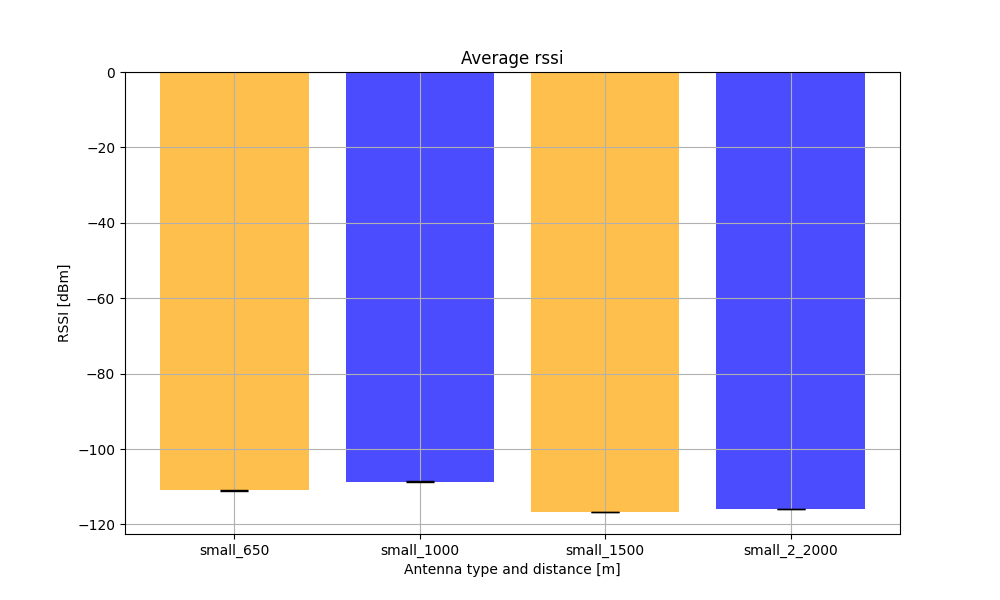
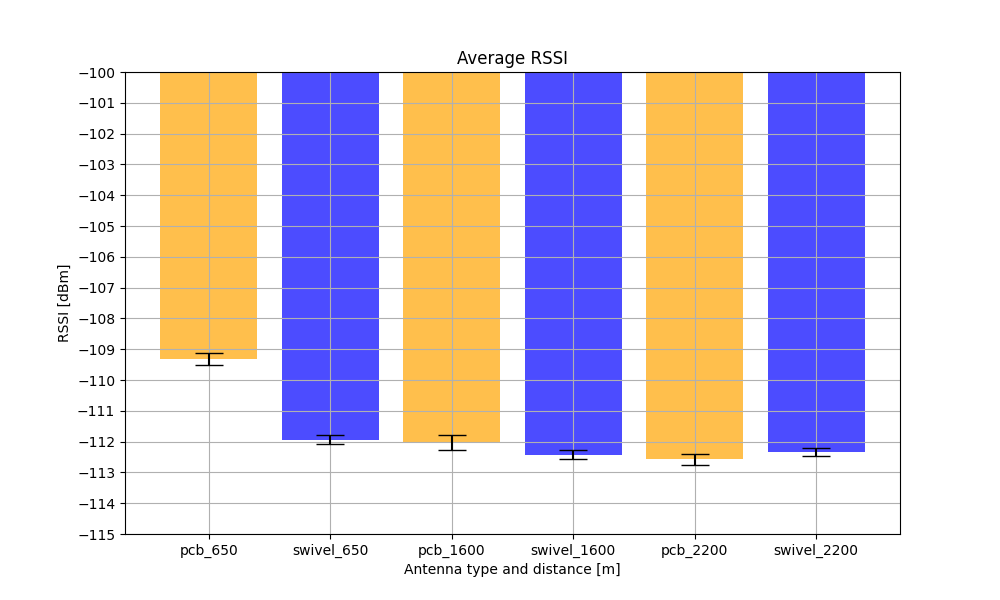
plot

diff --git a/test_script/plots.py b/test_script/plots.py
@@ -14,14 +14,14 @@ from scipy.stats import sem
 #     "zwykla_650.txt",
 # ]
 
-# data_paths = [
-#     "pcb_650.txt",
-#     "swivel_650.txt",
-#     "pcb_1600.txt",
-#     "swivel_1600.txt",
-#     "pcb_2200.txt",  
-#     "swivel_2200.txt",  
-# ]
+data_paths = [
+    "pcb_650.txt",
+    "swivel_650.txt",
+    "pcb_1600.txt",
+    "swivel_1600.txt",
+    "pcb_2200.txt",
+    "swivel_2200.txt",
+]
 
 data_paths = [
     "small_650.txt",
@@ -37,7 +37,6 @@ logging.getLogger().setLevel(logging.INFO)
 bar_plot_rssi_dict = {}
 bar_plot_snr_dict = {}
 bar_plot_transmited_dict = {}
-bar_plot_receive_dict = {}
 bar_plot_received_dict = {}
 error_plot_rssi = {}
 error_plot_received = {}
@@ -61,9 +60,9 @@ for path in data_paths:
     # [bar.set_alpha(0.1) for bar in bars]
     bar_plot_rssi_dict[path[:-4]] = np.mean(rssi)
     bar_plot_snr_dict[path[:-4]] = np.mean(snr)
-    error_plot_rssi[path[:-4]] = sem(rssi, ddof=1)
+    error_plot_rssi[path[:-4]] = sem(rssi)
     error_plot_snr[path[:-4]] = sem(snr)
-    error_plot_received[path[:-4]] = np.std(snr)
+    error_plot_received[path[:-4]] = (-5, 5)
 
     if np.size(received_packets) > 250:
         bar_plot_received_dict[path[:-4]] = np.size(received_packets) / 500.0 * 100.0
@@ -71,42 +70,47 @@ for path in data_paths:
         bar_plot_received_dict[path[:-4]] = np.size(received_packets) / 250.0 * 100.0
 
 
-# plt.title("850m")
-plt.ylabel("Signal to noise [dB]")
-plt.xlabel("RSSI [dBm]")
-plt.grid(True)
-plt.legend([x[:-4] for x in data_paths])
-# plt.show()
-plt.savefig("plots/signal_to_noise")
-
-plt.figure(1, figsize=(10, 6))
-plt.title("Average rssi")
-plt.bar(bar_plot_rssi_dict.keys(), bar_plot_rssi_dict.values(), color=["orange", "blue"], alpha=0.7,
-        yerr=error_plot_rssi.values(), ecolor='black', capsize=10)
-plt.xlabel("Antenna type and distance [m]")
-plt.ylabel("RSSI [dBm]")
-plt.grid(True)
-plt.savefig("plots/average_rssi")
-# plt.show()
-
-plt.figure(2, figsize=(10, 6))
-plt.title("Average snr")
-plt.bar(bar_plot_snr_dict.keys(), bar_plot_snr_dict.values(), color=["orange", "blue"], alpha=0.7,
-        yerr=error_plot_snr.values(), ecolor='black', capsize=10)
-plt.grid(True)
-plt.ylabel("Signal to noise [dB]")
-plt.xlabel("Antenna type and distance [m]")
-plt.savefig("plots/average_snr")
-
-# plt.figure(3)
-# plt.title("Transmited")
-# plt.bar(bar_plot_transmited_dict.keys(), bar_plot_transmited_dict.values())
+# # plt.title("850m")
+# plt.ylabel("Signal to noise [dB]")
+# plt.xlabel("RSSI [dBm]")
 # plt.grid(True)
+# plt.legend([x[:-4] for x in data_paths])
+# # plt.show()
+# plt.savefig("plots/signal_to_noise")
+
+# fig = plt.figure(2, figsize=(10, 6))
+# ax = fig.add_subplot(111)
+# ax.set_yticks(range(-130, -50, 1))
+# ax.set_ylim([-115, -100])
+# plt.title("Average RSSI")
+# plt.bar(bar_plot_rssi_dict.keys(), bar_plot_rssi_dict.values(), color=["orange", "blue"], alpha=0.7,
+#         yerr=error_plot_rssi.values(), ecolor='black', capsize=10)
+# plt.grid(True)
+# plt.xlabel("Antenna type and distance [m]")
+# plt.ylabel("RSSI [dBm]")
+# plt.savefig("plots/average_rssi")
+# plt.show()
+
+# fig = plt.figure(2, figsize=(10, 6))
+# ax = fig.add_subplot(111)
+# plt.title("Received frames")
+# ax.set_yticks(range(0, 101, 10))
+# plt.title("Average snr")
+# plt.bar(bar_plot_snr_dict.keys(), bar_plot_snr_dict.values(), color=["orange", "blue"], alpha=0.7,
+#         yerr=error_plot_snr.values(), ecolor='black', capsize=10)
+# plt.grid(True)
+# plt.ylabel("Signal to noise [dB]")
+# plt.xlabel("Antenna type and distance [m]")
+# plt.savefig("plots/average_snr")
+
 fig = plt.figure(3, figsize=(10, 6))
 ax = fig.add_subplot(111)
 plt.title("Received frames")
-ax.set_yticks(range(0, 101, 10))
-plt.bar(bar_plot_receive_dict.keys(), bar_plot_received_dict.values(), color=["orange", "blue"], alpha=0.7)
+ax.set_yticks(range(0, 101, 5))
+ax.set_ylim([50, 100])
+print(bar_plot_received_dict)
+plt.bar(["PCB_antenna_650", "PCB_antenna_1000", "PCB_antenna_1600", "PCB_antenna_2200"], bar_plot_received_dict.values(), color=["blue"], alpha=0.7, yerr=1, ecolor='black', capsize=10)
+
 plt.grid(True)
 plt.ylabel("Received frames [%]")
 plt.xlabel("Antenna type and distance [m]")
